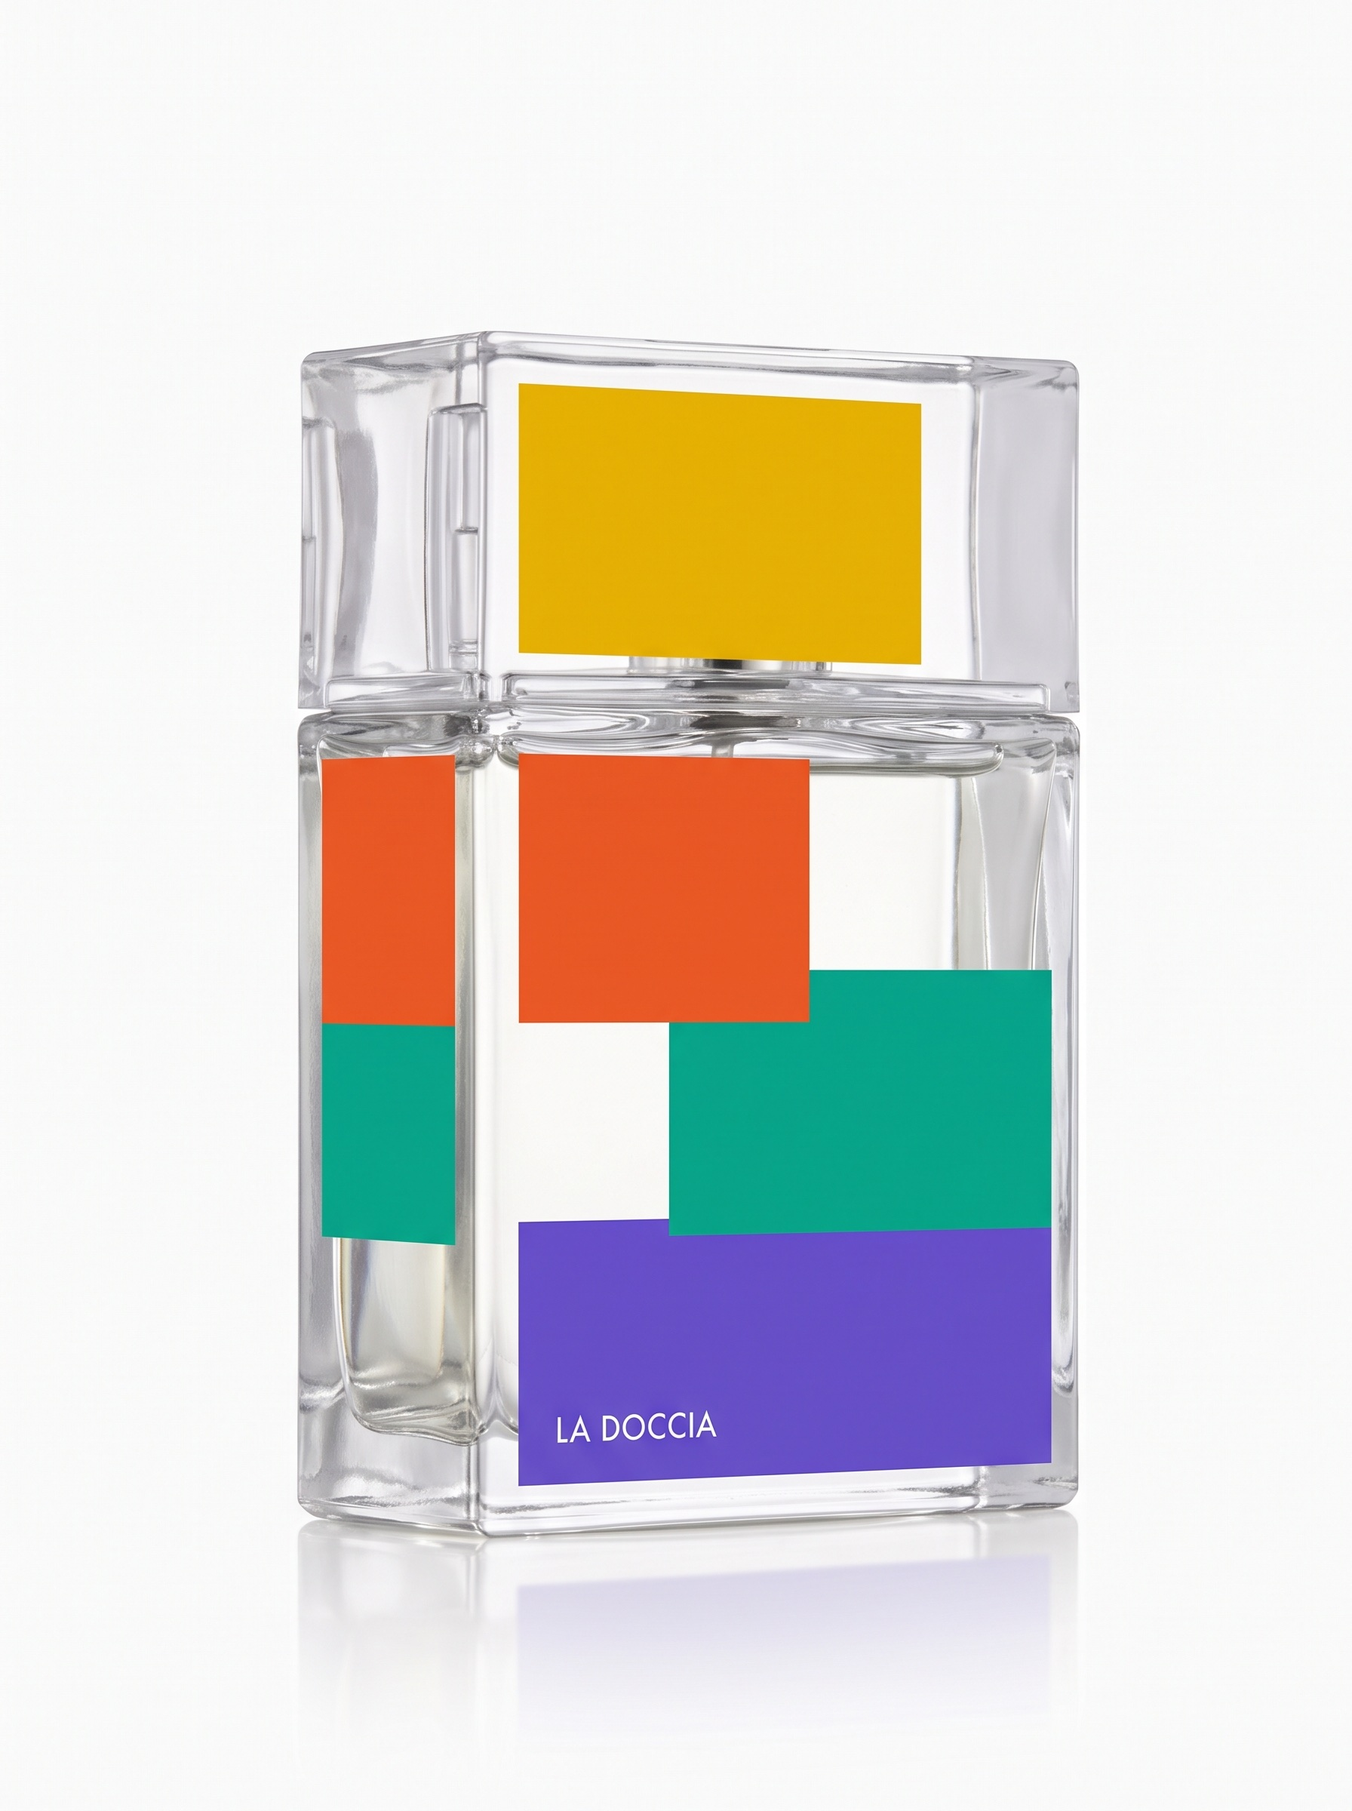
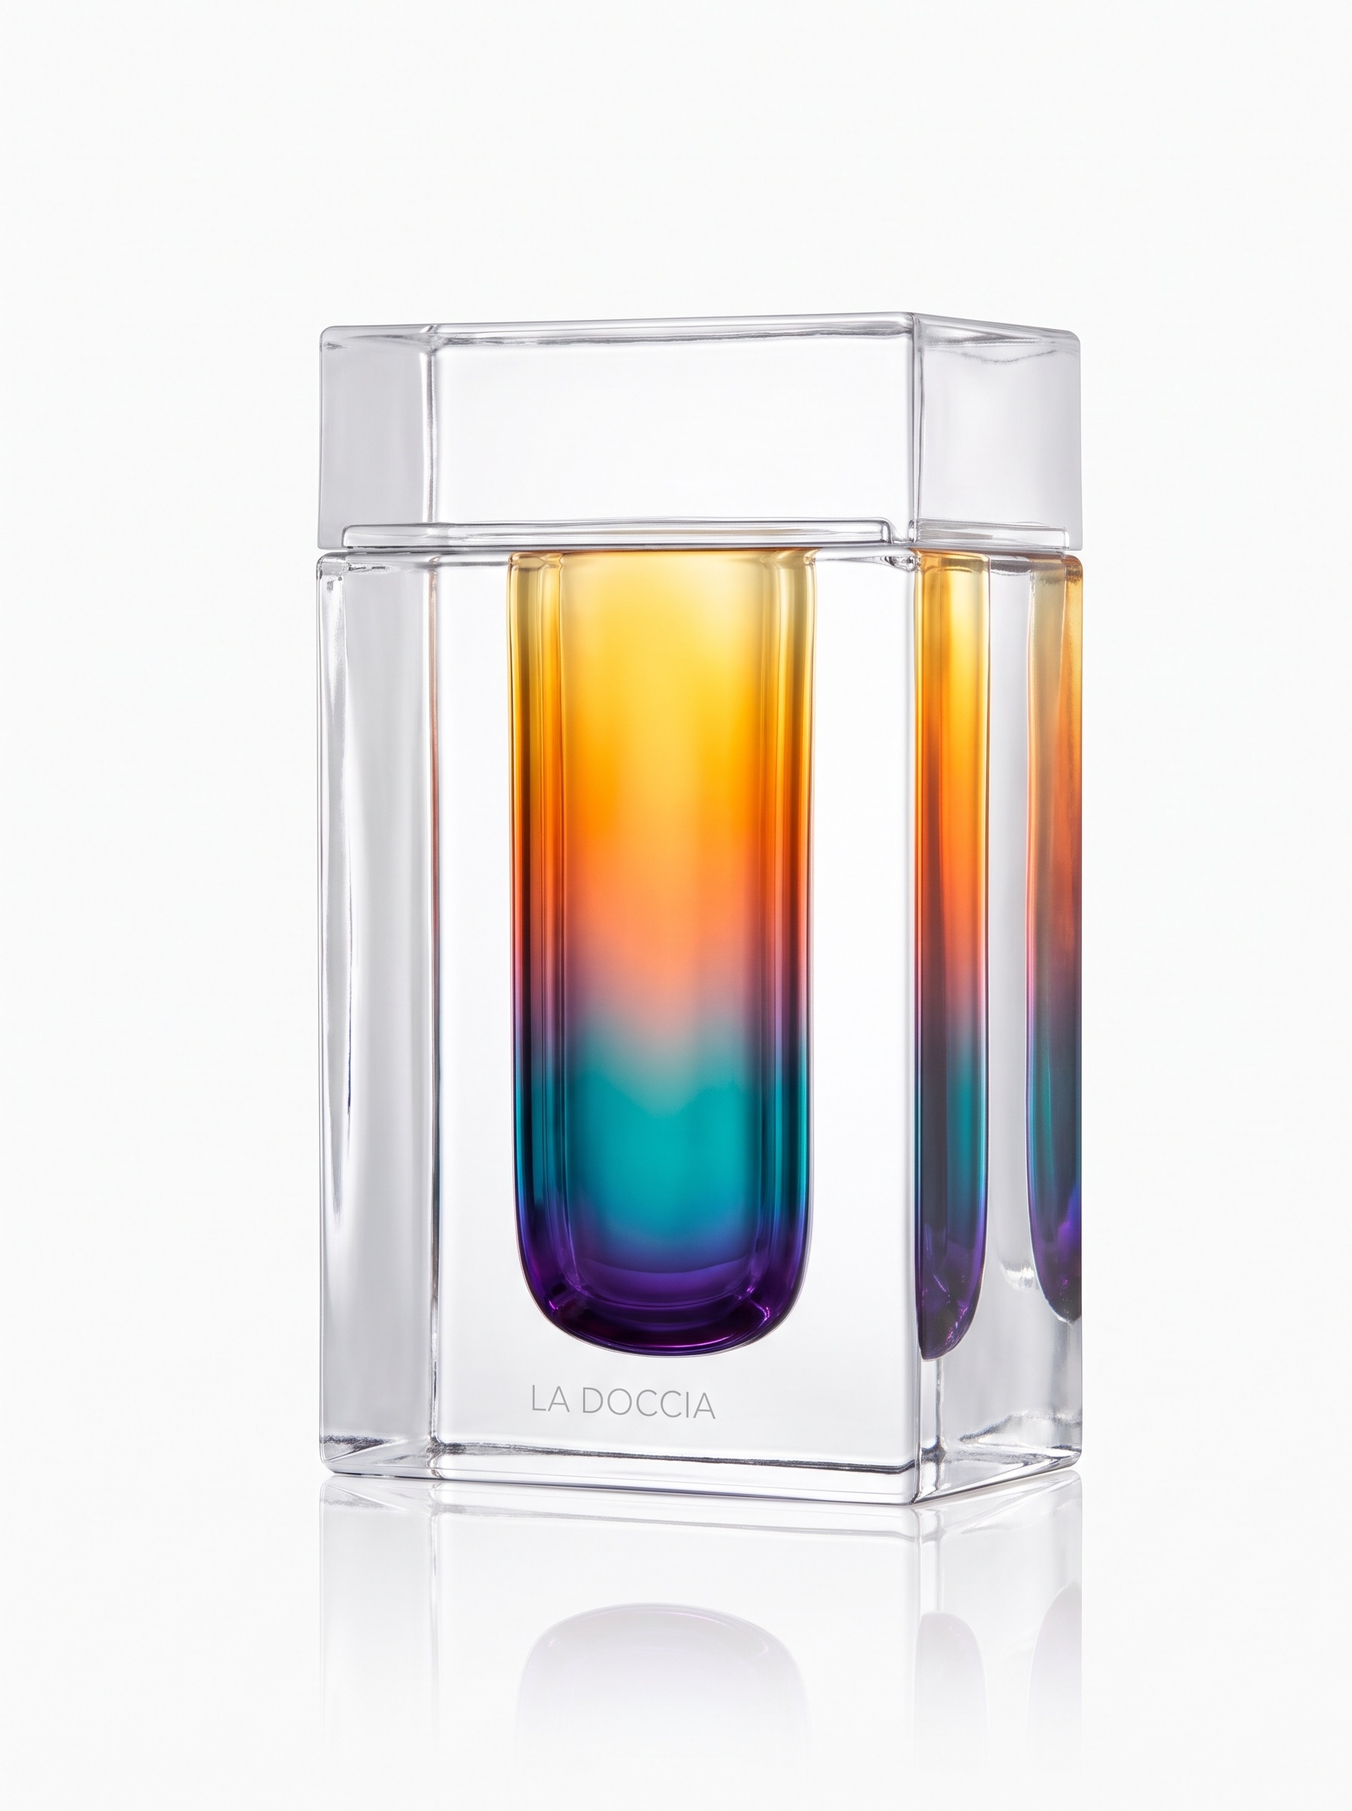
Gesamt-Check: Rechtstexte bereinigt, KI-Kennzeichnung, Blocco neu, FAQ/Pflege neu geschrieben
- Blocco-Flakon neu: Klarglas-Block, innen gluehender Farbverlauf (Licht im Eisblock)
- AGB/Widerruf/Datenschutz/Kontakt: alle Duschprojekt-Reste entfernt; Widerrufs-
  ausschluss korrekt fuer Hygiene-/Kosmetikartikel; Google-Fonts-Absatz im Datenschutz
- Impressum: Abschnitt 'Bildnachweis / KI-generierte Inhalte'
- Dezente KI-Badges ('KI-generiertes Bild', 9px) auf Produktgalerie, Hero-Slides
  und Welt-Heros
- FAQ komplett auf Shop umgeschrieben (KI-Bilder, wasserfester Schmuck, Markenfarben,
  Lieferung, Rueckgabe); Pflegehinweise auf Sortiment umgestellt (Frottee, Regen-
  jacken, Schmuck, Parfuems); Kontakt-Zeiten ohne Vor-Ort-Termine
- Sets-Kachel zeigt nicht mehr die entfernte Geschenkbox
- Platzhalter (gelb markiert) bleiben fuer: Telefon, E-Mail, UID/Kleinunternehmer,
  Zahlungsarten, Hosting-/Zahlungsdienstleister im Datenschutz

diff --git a/index.html b/index.html
@@ -1081,6 +1081,14 @@ nav.main .salelink:hover{border-color:#E0231C}
 .catgrid .gbtn{padding:9px 20px;font-size:10.5px;background:var(--ink);color:#fff;transition:background .3s,transform .25s}
 .catgrid .gtile:hover .gbtn{background:var(--kachel-col,var(--brass))}
 .catgrid .gtile.empty{opacity:.5;cursor:default}
+/* Dezente KI-Kennzeichnung auf großen Bildflächen (Details im Impressum) */
+#pmGrid .frame{position:relative}
+#pmGrid .frame::after,.shero.full .slide::after,.nwhero::after{
+  content:"KI-generiertes Bild";position:absolute;right:8px;bottom:6px;z-index:4;
+  font-size:9px;letter-spacing:.06em;color:#fff;background:rgba(23,23,27,.38);
+  padding:2px 7px;border-radius:999px;pointer-events:none;
+  -webkit-backdrop-filter:blur(4px);backdrop-filter:blur(4px)}
+.shero.full .slide::after{bottom:64px}
 .catgrid .gtile.empty img{filter:grayscale(.5)}
 /* Einstieg nach Olegs Vorgabe: Vollbild, nur die drei Türen — kein konkurrierender Text */
 .shero.full .stx{display:none}
@@ -1410,6 +1418,9 @@ nav.main .salelink:hover{border-color:#E0231C}
       Umsatzsteuer-Identifikationsnummer (UID): <mark>[ATU-Nummer ergänzen, oder Hinweis auf Kleinunternehmerregelung]</mark>
     </p>
 
+    <h2>Bildnachweis / KI-generierte Inhalte</h2>
+    <p>Die Produkt-, Kampagnen- und Modelfotos auf dieser Website sind mit Unterstützung künstlicher Intelligenz erstellt worden. Abgebildete Personen existieren nicht. Die Bilder dienen der Produktvisualisierung; maßgeblich für Kaufentscheidungen sind die Produktbeschreibungen.</p>
+
     <h2>Verbraucherschlichtung / Online-Streitbeilegung</h2>
     <p>Die EU-Kommission stellt eine Plattform zur Online-Streitbeilegung (OS) bereit: <a href="https://ec.europa.eu/consumers/odr" target="_blank" rel="noopener">ec.europa.eu/consumers/odr</a>. Wir sind zur Teilnahme an einem Streitbeilegungsverfahren vor einer Verbraucherschlichtungsstelle weder verpflichtet noch bereit.</p>
 
@@ -1438,14 +1449,17 @@ nav.main .salelink:hover{border-color:#E0231C}
     <h2>Verarbeitung beim Besuch der Website</h2>
     <p>Beim Aufruf dieser Website werden durch den Hosting-Anbieter automatisch technische Zugriffsdaten in Server-Logfiles gespeichert (IP-Adresse, Datum und Uhrzeit, aufgerufene Seite, Browsertyp). Rechtsgrundlage ist unser berechtigtes Interesse am sicheren und stabilen Betrieb der Website (Art. 6 Abs. 1 lit. f DSGVO).</p>
 
-    <h2>Kontakt- und Terminanfragen</h2>
-    <p>Wenn Sie über das Terminformular oder per Nachricht Kontakt aufnehmen, verarbeiten wir die von Ihnen angegebenen Daten (Name, Kontaktdaten, Postleitzahl, Anliegen) ausschließlich zur Bearbeitung Ihrer Anfrage und Terminvereinbarung. Rechtsgrundlage ist die Anbahnung bzw. Erfüllung eines Vertrags (Art. 6 Abs. 1 lit. b DSGVO).</p>
+    <h2>Kontaktanfragen</h2>
+    <p>Wenn Sie per E-Mail oder Telefon Kontakt aufnehmen, verarbeiten wir die von Ihnen angegebenen Daten (Name, Kontaktdaten, Anliegen) ausschließlich zur Bearbeitung Ihrer Anfrage. Rechtsgrundlage ist die Anbahnung bzw. Erfüllung eines Vertrags (Art. 6 Abs. 1 lit. b DSGVO).</p>
 
     <h2>Newsletter</h2>
     <p>Für den Newsletterversand verarbeiten wir Ihre E-Mail-Adresse auf Grundlage Ihrer Einwilligung (Art. 6 Abs. 1 lit. a DSGVO). Sie können die Einwilligung jederzeit mit Wirkung für die Zukunft widerrufen, etwa über den Abmeldelink in jeder Newsletter-E-Mail.</p>
 
     <h2>Bestellabwicklung im Shop</h2>
     <p><mark>[Sobald der Shop echte Bestellungen abwickelt: Angaben zu Zahlungsdienstleistern, Versanddienstleistern und Speicherfristen ergänzen.]</mark></p>
+
+    <h2>Google Fonts</h2>
+    <p>Diese Website bindet Schriftarten von Google Fonts ein. Beim Seitenaufruf wird dabei Ihre IP-Adresse an Server von Google übertragen. <mark>[Empfehlung vor Livegang: Schriften lokal hosten — dann entfällt dieser Abschnitt.]</mark></p>
 
     <h2>Ihre Rechte</h2>
     <p>Sie haben das Recht auf Auskunft, Berichtigung, Löschung, Einschränkung der Verarbeitung, Datenübertragbarkeit und Widerspruch. Zudem können Sie sich bei der österreichischen Datenschutzbehörde (<a href="https://www.dsb.gv.at" target="_blank" rel="noopener">dsb.gv.at</a>) beschweren.</p>
@@ -1463,7 +1477,7 @@ nav.main .salelink:hover{border-color:#E0231C}
   <div class="wrap legal">
     <span class="eyebrow">Rechtliches</span>
     <h1>Allgemeine Geschäftsbedingungen</h1>
-    <p class="lead">Diese Bedingungen gelten für alle Bestellungen über den Online-Shop von La Doccia sowie für beauftragte Duschprojekte.</p>
+    <p class="lead">Diese Bedingungen gelten für alle Bestellungen über den Online-Shop von La Doccia.</p>
 
     <div class="legalnote" style="margin-top:0;margin-bottom:34px">
       <strong>Wichtiger Hinweis:</strong> Dies ist eine Struktur-Vorlage mit den gesicherten Firmendaten. Die mit <mark>gelb</mark> markierten Stellen müssen ergänzt und die gesamten AGB vor der Veröffentlichung fachkundig geprüft werden — für den Shop-Teil eignet sich die IT-Recht Kanzlei, für Österreich zusätzlich die Wirtschaftskammer (WKO).
@@ -1473,7 +1487,7 @@ nav.main .salelink:hover{border-color:#E0231C}
     <p>Diese AGB gelten für Verträge zwischen Oleg Neufeld, La Doccia, Landstraßer Hauptstraße 71/2, 1030 Wien (nachfolgend „Anbieter") und seinen Kundinnen und Kunden. Maßgeblich ist die zum Zeitpunkt der Bestellung gültige Fassung.</p>
 
     <h2>§ 2 Vertragsschluss</h2>
-    <p>Die Darstellung der Produkte im Online-Shop stellt kein bindendes Angebot dar. Mit der Bestellung geben Sie ein verbindliches Angebot ab. Der Vertrag kommt mit unserer Auftragsbestätigung bzw. mit Auslieferung der Ware zustande. Bei Duschprojekten kommt der Vertrag mit Ihrer schriftlichen Annahme des Festpreisangebots zustande.</p>
+    <p>Die Darstellung der Produkte im Online-Shop stellt kein bindendes Angebot dar. Mit der Bestellung geben Sie ein verbindliches Angebot ab. Der Vertrag kommt mit unserer Auftragsbestätigung bzw. mit Auslieferung der Ware zustande.</p>
 
     <h2>§ 3 Preise und Zahlung</h2>
     <p>Es gelten die zum Bestellzeitpunkt angegebenen Preise. <mark>[Angaben zur Umsatzsteuer ergänzen — Ausweis oder Hinweis auf Kleinunternehmerregelung.]</mark> Akzeptierte Zahlungsarten: <mark>[Zahlungsarten ergänzen, z. B. PayPal, Kreditkarte, Rechnung.]</mark></p>
@@ -1531,7 +1545,7 @@ nav.main .salelink:hover{border-color:#E0231C}
     <p>Sie tragen die unmittelbaren Kosten der Rücksendung der Waren. <mark>[Falls kostenloser Rückversand angeboten wird, hier anpassen — auf der Website ist aktuell „kostenloser Rückversand" genannt.]</mark></p>
 
     <h2>Ausschluss des Widerrufsrechts</h2>
-    <p>Das Widerrufsrecht besteht nicht bei Waren, die nach Kundenspezifikation angefertigt werden oder eindeutig auf persönliche Bedürfnisse zugeschnitten sind — dies betrifft insbesondere individuell geplante Duschprojekte sowie Sonderanfertigungen.</p>
+    <p>Das Widerrufsrecht besteht nicht bei Waren, die nach Kundenspezifikation angefertigt werden, sowie bei versiegelten Waren, die aus Gründen des Gesundheitsschutzes oder der Hygiene nicht zur Rückgabe geeignet sind, wenn ihre Versiegelung nach der Lieferung entfernt wurde — das betrifft insbesondere geöffnete Parfüms und Kosmetikprodukte.</p>
 
     <button class="btn ghost" onclick="go('shop')" style="margin-top:32px">Zurück zum Shop</button>
   </div>
@@ -1552,7 +1566,7 @@ nav.main .salelink:hover{border-color:#E0231C}
   <div class="wrap legal">
     <span class="eyebrow">Service</span>
     <h1>Kontakt</h1>
-    <p class="lead">Ob Frage zum Shop, zu einer Bestellung oder zu Ihrem Projekt — wir sind persönlich für Sie da und antworten in der Regel innerhalb eines Werktags.</p>
+    <p class="lead">Ob Frage zum Shop, zu einer Bestellung oder zu einem Produkt — wir sind persönlich für Sie da und antworten in der Regel innerhalb eines Werktags.</p>
 
     <h2>So erreichen Sie uns</h2>
     <p>
@@ -1564,7 +1578,7 @@ nav.main .salelink:hover{border-color:#E0231C}
     </p>
 
     <h2>Erreichbarkeit</h2>
-    <p>Montag bis Freitag von 9 bis 18 Uhr. Beratungstermine vor Ort vergeben wir auch abends und samstags — je nachdem, was für Sie am besten passt.</p>
+    <p>Montag bis Freitag von 9 bis 18 Uhr. E-Mails beantworten wir in der Regel innerhalb eines Werktags.</p>
 
 
     <button class="btn ghost" onclick="go('shop')" style="margin-top:32px">Zurück zum Shop</button>
@@ -1576,17 +1590,17 @@ nav.main .salelink:hover{border-color:#E0231C}
   <div class="wrap legal">
     <span class="eyebrow">Service</span>
     <h1>Häufige Fragen</h1>
-    <p class="lead">Die Antworten auf die Fragen, die uns am häufigsten erreichen — zum Duschumbau und zum Shop.</p>
+    <p class="lead">Die Antworten auf die Fragen, die uns am häufigsten erreichen.</p>
 
 
-    <h2>Was kostet eine neue Dusche?</h2>
-    <p>Unsere Designlinien beginnen bei 6.900 € (Classic), 9.400 € (Comfort) und 13.800 € (Elegance) — jeweils als Komplettpaket für einen Duschraum bis 8 m², inklusive sämtlicher Arbeiten und Materialien. Der Endpreis ergibt sich nach dem Aufmaß und ist dann verbindlich.</p>
+    <h2>Sind die Produktbilder echt?</h2>
+    <p>Unsere Produkt- und Kampagnenbilder sind KI-generierte Visualisierungen — abgebildete Personen existieren nicht. Maßgeblich sind die Produktbeschreibungen; Details dazu im <a href="#" onclick="go('impressum');return false">Impressum</a>.</p>
 
-    <h2>Wie lange dauert der Umbau?</h2>
-    <p>Je nach Umfang in der Regel ein bis zwei Wochen von der Demontage bis zur Endreinigung. Den genauen Zeitplan erhalten Sie mit dem Angebot.</p>
+    <h2>Ist der Schmuck wirklich wasserfest?</h2>
+    <p>Ja — unser Schmuck ist vergoldeter Edelstahl mit Emaille und bleibt beim Händewaschen und Duschen einfach an. Parfüm und Chlorwasser sollten Sie trotzdem meiden, das gilt für jeden Schmuck.</p>
 
-    <h2>Kann ich jede Farbe wählen?</h2>
-    <p>Ja — Wandflächen, Armaturen und Rinne sind im kompletten RAL-Spektrum möglich und werden auf einen Ton abgestimmt.</p>
+    <h2>Welche Farben gibt es?</h2>
+    <p>Unsere Kollektion lebt in vier Markenfarben — Gelb, Orange, Türkis und Violett. Viele Artikel gibt es in mehreren dieser Farben; die Auswahl finden Sie direkt auf der Produktseite.</p>
 
     <h2>Wie schnell wird meine Shop-Bestellung geliefert?</h2>
     <p>Innerhalb von 2 bis 4 Werktagen — versandkostenfrei, ohne Mindestbestellwert.</p>
@@ -1618,7 +1632,7 @@ nav.main .salelink:hover{border-color:#E0231C}
     <p>Sie können Artikel innerhalb von 30 Tagen nach Erhalt zurückgeben — der Rückversand ist kostenlos. Melden Sie die Rücksendung kurz per E-Mail an, Sie erhalten dann ein vorfrankiertes Retourenlabel. Die Erstattung erfolgt innerhalb von 14 Tagen nach Eingang der Ware.</p>
 
     <h2>Ausnahmen</h2>
-    <p>Aus Hygienegründen sind geöffnete Pflege- und Duftprodukte von der Rückgabe ausgeschlossen. Sonderanfertigungen — insbesondere individuell geplante Duschprojekte — sind vom Widerruf ausgenommen. Ihr gesetzliches Widerrufsrecht bleibt davon unberührt: <a href="#" onclick="go('widerruf');return false">Zur Widerrufsbelehrung</a>.</p>
+    <p>Aus Hygienegründen sind geöffnete Pflege- und Duftprodukte von der Rückgabe ausgeschlossen. Ihr gesetzliches Widerrufsrecht bleibt davon unberührt: <a href="#" onclick="go('widerruf');return false">Zur Widerrufsbelehrung</a>.</p>
 
     <button class="btn ghost" onclick="go('shop')" style="margin-top:32px">Zurück zum Shop</button>
   </div>
@@ -1629,16 +1643,19 @@ nav.main .salelink:hover{border-color:#E0231C}
   <div class="wrap legal">
     <span class="eyebrow">Service</span>
     <h1>Pflegehinweise</h1>
-    <p class="lead">Damit Frottee, Armaturen und Oberflächen lange so aussehen wie am ersten Tag — die wichtigsten Hinweise aus unserer Werkstatt.</p>
+    <p class="lead">Damit Frottee, Kleidung, Schmuck und Düfte lange so schön bleiben wie am ersten Tag.</p>
 
     <h2>Frottee &amp; Morgenmäntel</h2>
     <p>Vor dem ersten Gebrauch separat waschen. Danach bei 60 °C mit Colorwaschmittel, ohne Weichspüler — er legt sich um die Fasern und mindert die Saugkraft. Trocknergeeignet bei niedriger Temperatur; das hält den Flor weich und voluminös.</p>
 
-    <h2>Armaturen aus Messing</h2>
-    <p>Nach dem Duschen kurz mit einem weichen Tuch trockenwischen, das verhindert Kalkflecken. Keine scheuernden Mittel oder essighaltigen Reiniger verwenden — sie greifen die PVD-Beschichtung an. Bei Kalk hilft ein mildes, pH-neutrales Reinigungsmittel.</p>
+    <h2>Regenjacken &amp; wasserfeste Kleidung</h2>
+    <p>Bei 30 °C mit Flüssigwaschmittel waschen, ohne Weichspüler. Die Imprägnierung lässt sich im Trockner bei niedriger Temperatur reaktivieren — so perlt das Wasser wieder wie am ersten Tag.</p>
 
-    <h2>Fugenlose Oberflächen</h2>
-    <p>Mit Wasser und einem Abzieher genügt die tägliche Pflege. Einmal pro Woche mit einem pH-neutralen Reiniger und weichem Tuch wischen. Mikrokratzer lassen sich bei mineralischen Oberflächen nachpolieren — sprechen Sie uns an.</p>
+    <h2>Schmuck</h2>
+    <p>Vergoldeter Edelstahl mit Emaille verträgt Wasser problemlos. Parfüm, Cremes und Chlorwasser meiden, gelegentlich mit einem weichen Tuch polieren — mehr braucht es nicht.</p>
+
+    <h2>Parfüms</h2>
+    <p>Kühl, trocken und dunkel lagern — nicht im Bad neben der Dusche. So bleibt ein Duft mindestens 24 Monate stabil.</p>
 
     <h2>Duftkerzen</h2>
     <p>Den Docht vor jedem Anzünden auf etwa 5 mm kürzen und die Kerze beim ersten Brennen so lange brennen lassen, bis die Oberfläche vollständig flüssig ist — so bildet sich kein Brennkanal.</p>
@@ -2097,7 +2114,7 @@ const P=[
  {id:'p124',cat:'textil',sc:'maentel',who:'herren',n:'Morgenmantel „Uomo“',p:99,img:'assets/p/124_a.jpg',img2:'assets/p/124_b.jpg',gal:['assets/p/124_b.jpg'],r:4.9,rv:2,badge:'Neu',mat:'100 % Baumwolle (Waffelpiqué)',sizes:["M","L","XL"],rel:["p125","p42","p120"],d:'Steingrauer Waffelpiqué-Mantel mit Schalkragen — leicht, schnell trocknend, mit gesticktem Brustlogo.',x:'Zwei aufgesetzte Taschen, Gürtelschlaufen. Bei 60 °C waschbar, trocknergeeignet.'},
  {id:'p125',cat:'textil',sc:'tuecher',who:'herren',n:'Saunatuch, 80 × 200 cm',p:34,img:'assets/p/125_a.jpg',img2:'assets/p/125_b.jpg',gal:['assets/p/125_b.jpg','assets/p/125_video.mp4'],r:4.9,rv:4,badge:'Neu',mat:'100 % Baumwolle, 500 g/m²',rel:["p124","p39","p40"],d:'Extralanges Saunatuch in Weiß mit türkiser Webbordüre und Tonstick — großzügig geschnitten.',x:'Bei 60 °C waschbar, trocknergeeignet. Vor dem ersten Gebrauch separat waschen.'},
  {id:'p126',cat:'mode',sc:'jacken',who:'herren',n:'Regenjacke „Perla Uomo“',p:149,img:'assets/p/126_a.jpg',img2:'assets/p/126_b.jpg',gal:['assets/p/126_b.jpg','assets/p/126_video.mp4'],r:5.0,rv:3,badge:'Neu',mat:'100 % Polyester, PFC-frei imprägniert',sizes:["S","M","L","XL"],rel:["p62","p126","p120"],d:'Die Perla für ihn: mattes Petrol, weißer Reißverschluss, das Wasser perlt sichtbar ab.',x:'Wassersäule 10.000 mm, getapte Nähte, verstellbare Kapuze. Imprägnierung im Trockner reaktivierbar.'},
- {id:'p127',cat:'parfuem',sc:'edp',n:'Eau de Parfum „Blocco“, 50 ml',p:149,img:'assets/p/127_a.jpg',r:5.0,rv:2,badge:'Neu',rel:["p113","p114","p115"],d:'Der Block nach eigener Skizze: ein massiver Glasquader ohne eine einzige Rundung, exakt gerade Linien. Kein klassischer Deckel — nur eine feine Fuge verrät den integrierten Drehmechanismus. Darauf: knallige Farbfelder in den vier Markenfarben.',x:'14 % Duftölanteil, hält 7–9 Stunden. Steht wie ein Architekturmodell im Regal. Design zum Schutz angemeldet.'},
+ {id:'p127',cat:'parfuem',sc:'edp',n:'Eau de Parfum „Blocco“, 50 ml',p:149,img:'assets/p/127_a.jpg',r:5.0,rv:2,badge:'Neu',rel:["p113","p114","p115"],d:'Der Block nach eigener Skizze: ein massiver Glasquader ohne eine einzige Rundung, exakt gerade Linien. Kein klassischer Deckel — nur eine feine Fuge verrät den integrierten Drehmechanismus. Im Inneren glüht der Duft in den vier Markenfarben — wie Licht im Eisblock.',x:'14 % Duftölanteil, hält 7–9 Stunden. Steht wie ein Architekturmodell im Regal. Design zum Schutz angemeldet.'},
  {id:'S1',cat:'kosmetik',sc:'koerper',n:"Willkommensset",p:49,img:'assets/s/S1_willkommensset_a.webp',img2:'assets/s/S1_willkommensset_b.webp',gal:["assets/s/S1_willkommensset_b.webp", "assets/s/S1_willkommensset_c.webp"],r:4.8,rv:29,badge:"Set",rel:["p13", "p14", "p15"],d:"Duschgel, Bodylotion und Seifenstück als Einstieg in die Kollektion — schön verpackt, sofort verschenkbar.",x:"Mit Sheabutter und Panthenol, ohne Mineralöl. Im Winter großzügiger dosieren, im Sommer reicht eine dünne Schicht auf der noch feuchten Haut."},
  {id:'S2',cat:'kosmetik',sc:'dusche',n:"Duschset komplett",p:69,old:89,img:'assets/s/S2_duschset-komplett_a.webp',img2:'assets/s/S2_duschset-komplett_b.webp',gal:["assets/s/S2_duschset-komplett_b.webp", "assets/s/S2_duschset-komplett_c.webp"],r:4.9,rv:36,badge:"Set",rel:["p09", "p10", "p11"],d:"Die komplette Dusch-Routine: Duschgel, Duschöl und Duschpeeling im Set — Sie sparen gegenüber dem Einzelkauf.",x:"Sulfatfrei, pH 5,5, mit Aloe vera und pflanzlichem Glyzerin — mild genug für zweimal tägliches Duschen, auch bei empfindlicher Haut."},
  {id:'S4',cat:'kosmetik',sc:'haar',n:"Haarpflege-Set",p:59,img:'assets/s/S4_haarpflege-set_a.webp',img2:'assets/s/S4_haarpflege-set_b.webp',gal:["assets/s/S4_haarpflege-set_b.webp", "assets/s/S4_haarpflege-set_c.webp"],r:4.6,rv:14,badge:"Set",rel:["p19", "p20", "p21"],d:"Shampoo, Conditioner und Haarmaske als Kur-Set — die volle Routine für beanspruchtes Haar.",x:"Sulfatfrei, mit Panthenol und Arganöl. Mild genug für die tägliche Wäsche; als Kur einmal pro Woche 5 Minuten einwirken lassen."},
@@ -2126,7 +2143,7 @@ const COLL={
  sommer:{n:'Must-haves für den Sommer',img:'assets/e/hand-creme.jpg',
    sub:'Sonnenpflege, leichte Düfte und Begleiter für Pool und Strand.',
    f:p=>['p18','p05','p24','p55','p47','p48','S6'].includes(p.id)},
- sets:{n:'Sets & Geschenke',img:'assets/s/S3_duft-geschenkbox_a.webp',
+ sets:{n:'Sets & Geschenke',img:'assets/s/S2_duschset-komplett_a.webp',
    sub:'Fertig kombiniert und schön verpackt — zum Verschenken oder Selbstbehalten.',
    f:p=>p.badge==='Set'||/set|trio|duo/i.test(p.n)},
  farben:{n:'In Ihren Lieblingsfarben',img:'assets/p/41_handtuch-set-4_a.webp',
